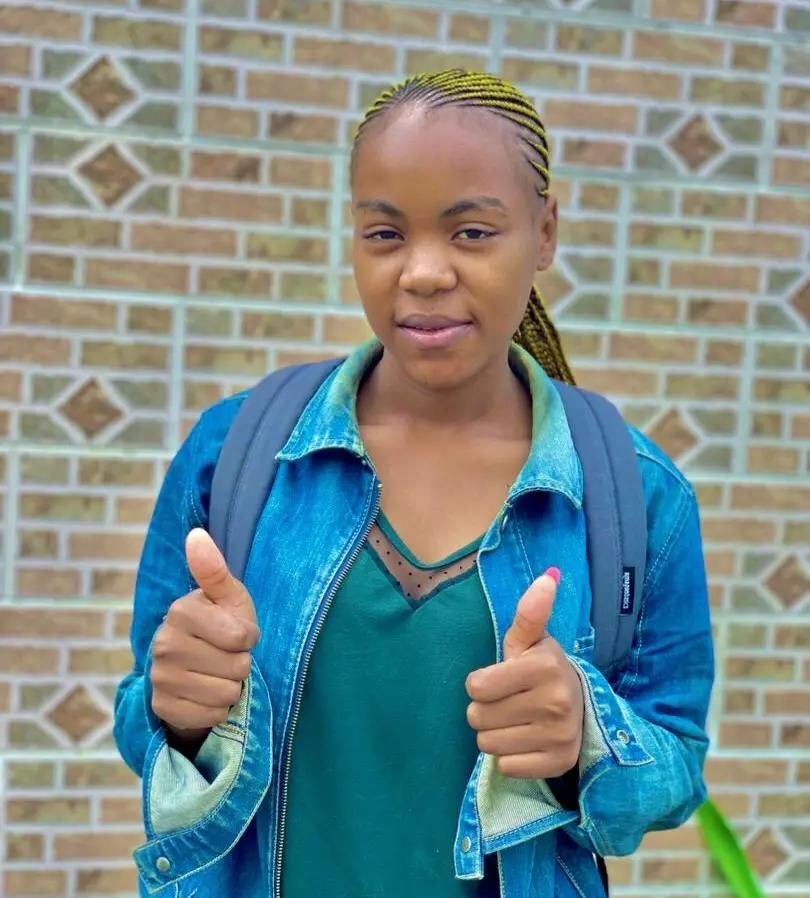
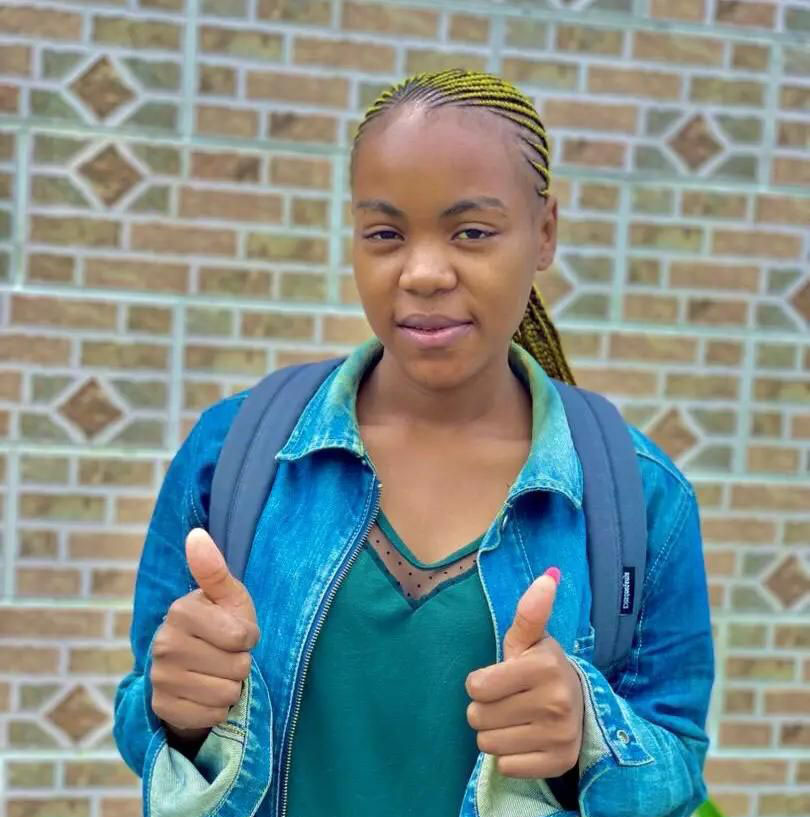
mis

diff --git a/index.html b/index.html
@@ -841,6 +841,19 @@ class="overflow-hidden bg-gray-50 sm:grid sm:grid-cols-2">
                     </a>
                   
                   <!-- end images  equipe -->
+
+
+
+
+                         <!-- images  equipe -->
+
+                  <a class="size-16 rounded-full border border-gray-950/5 dark:border-white/5" href="#" title="Méschac Irung" target="_blank">
+
+                        <img data-aos="zoom-in-up" data-aos-duration="500" data-aos-delay="100" class="rounded-full" src="./WhatsApp Image 2024-08-04 at 20.10.43.jpeg" alt="John Doe" loading="lazy" width="120" height="120">
+
+                    </a>
+                  
+                  <!-- end images  equipe -->
                   
     
                 <!-- end images  equipe -->
@@ -912,8 +925,7 @@ class="overflow-hidden bg-gray-50 sm:grid sm:grid-cols-2">
 
                                     <blockquote class="mt-3">
                                         <p class="text-gray-700 dark:text-gray-300">
-                                        
-Chef de projet et créateur de solutions innovantes, je suis le fondateur de GreatFy et le concepteur de programmes comme Kelas+. Expert en gestion de projets, j'allie créativité et compétences techniques pour développer des solutions adaptées aux besoins des entreprises et startups, transformant des idées en produits performants qui favorisent leur croissance.
+Chef de projet et fondateur de GreatFy, je conçois des programmes innovants comme Kelas+. J'allie créativité et compétences techniques pour développer des solutions performantes pour entreprises et startups.
                                         </p>
                                     </blockquote>
 
@@ -951,7 +963,7 @@ Chef de projet et créateur de solutions innovantes, je suis le fondateur de Gre
 
                                     <blockquote class="mt-3">
                                         <p class="text-gray-700 dark:text-gray-300">
-                                          Développeur web et administrateur de bases de données possédant une solide expérience en gestion de projets informatiques et en développement logiciel. Expert en création de solutions web efficaces et sécurisées, ainsi qu'en optimisation et maintenance de bases de données pour assurer des performances optimales. Capable de diriger des équipes et de mener à bien des projets complexes, en alliant expertise technique et compétences en gestion.
+                                          Développeur web et administrateur de bases de données, je possède une solide expérience en gestion de projets informatiques et en développement logiciel. Expert en création de solutions web sécurisées et en optimisation de bases de données, je dirige des équipes pour mener à bien des projets complexes, alliant expertise technique et compétences en gestion.
                                         </p>
                                     </blockquote>
 
@@ -987,7 +999,7 @@ Chef de projet et créateur de solutions innovantes, je suis le fondateur de Gre
                                     <!-- description -->
                                     <blockquote class="mt-3">
                                         <p class="text-gray-700 dark:text-gray-300">
-                                          Concepteur d'interfaces utilisateur et de fonctionnalités pour le site web de GreatFy et d'autres produits de la société. Expert en création d'expériences utilisateur intuitives et attrayantes, avec une attention particulière à l'ergonomie et à la performance. Capable de transformer des idées complexes en interfaces claires et fonctionnelles, en utilisant les meilleures pratiques de conception et les technologies de pointe.
+                                          Concepteur d'interfaces utilisateur chez GreatFy, je crée des expériences intuitives et attrayantes pour le site web et d'autres produits de la société. Expert en ergonomie et performance, je transforme des idées complexes en interfaces claires et fonctionnelles, utilisant les meilleures pratiques de conception et technologies de pointe.
                                         </p>
                                     </blockquote>
                                     <!-- end description -->
@@ -1084,14 +1096,14 @@ Chef de projet et créateur de solutions innovantes, je suis le fondateur de Gre
                             <div class="flex gap-3">
                               <!-- avatar -->
                                 <span class="relative block rounded-[--avatar-border-radius] text-lg size-10">
-                                    <img class="h-full w-full rounded-[--avatar-border-radius] object-cover" src="https://randomuser.me/api/portraits/men/5.jpg" alt="John Doe">
+                                    <img class="h-full w-full rounded-[--avatar-border-radius] object-cover" src="./WhatsApp Image 2024-08-04 at 20.10.43.jpeg" alt="John Doe">
                                 </span>
                                 <!-- end avatar -->
 
                                 <!-- info -->
                                 <div class="w-[calc(100%-3.25rem)]">
                                   <!-- nom -->
-                                    <h3 class="font-medium text-gray-950 dark:text-white">Zeki</h3>
+                                    <h3 class="font-medium text-gray-950 dark:text-white">Marcellia Rosisna NGUIE NIANDINGA</h3>
                                     <!-- end nom -->
 
                                     <!-- role -->
